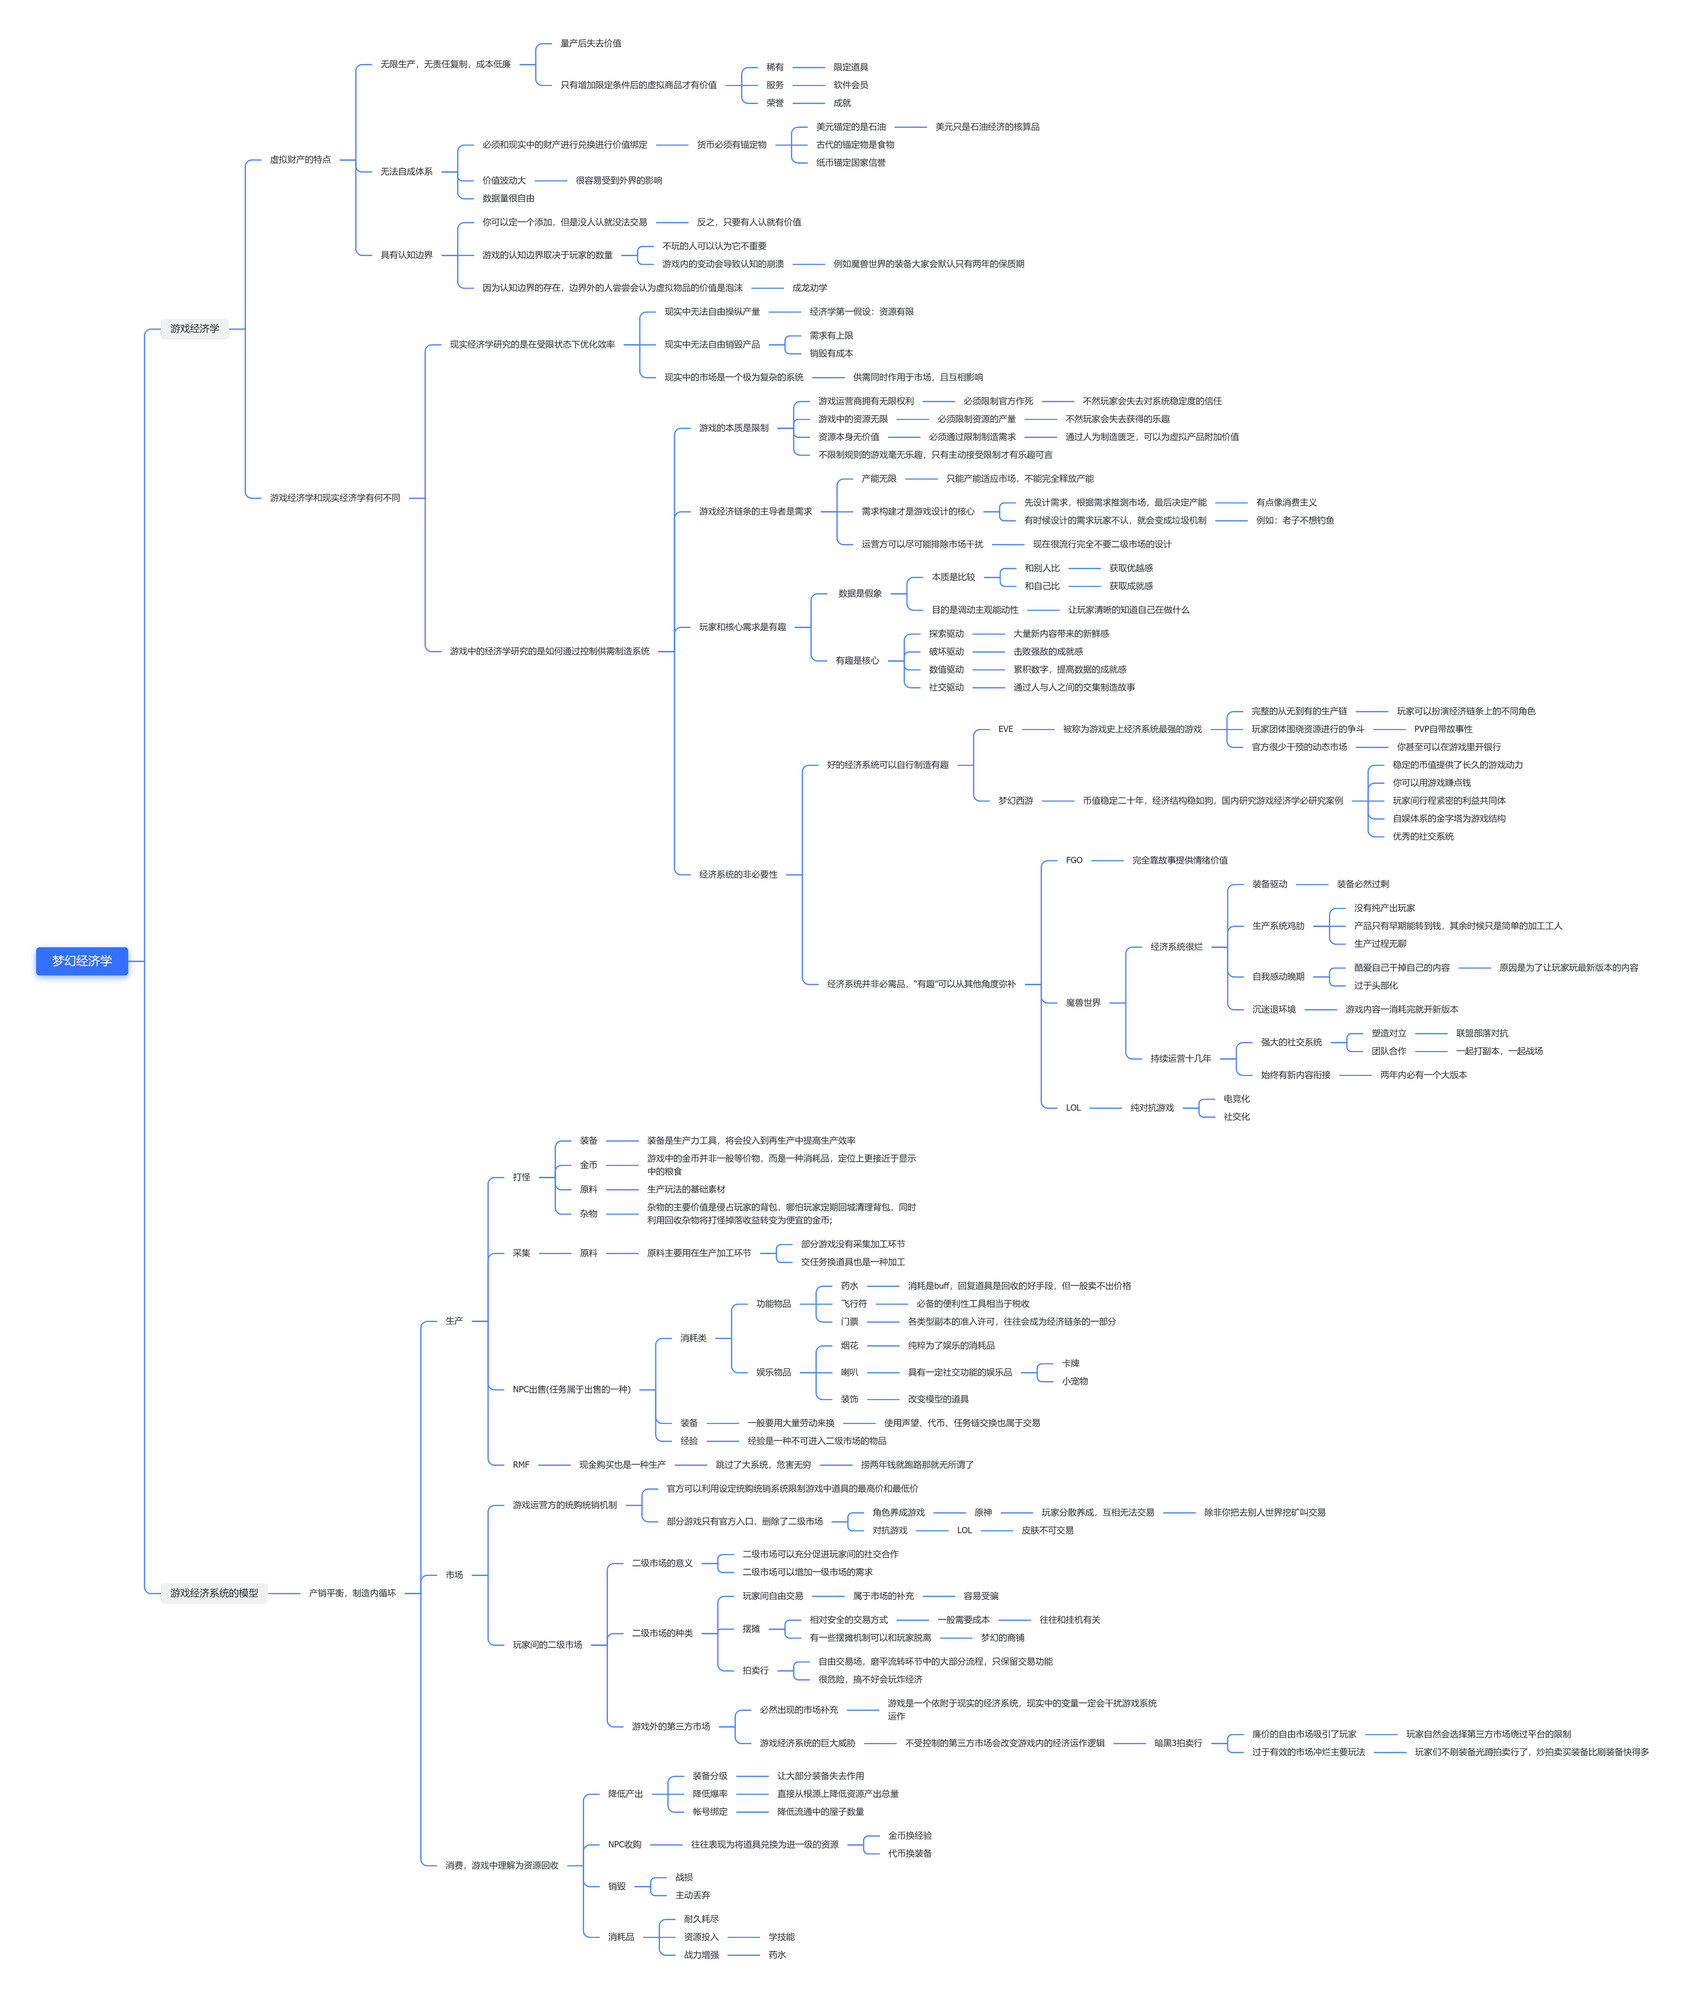
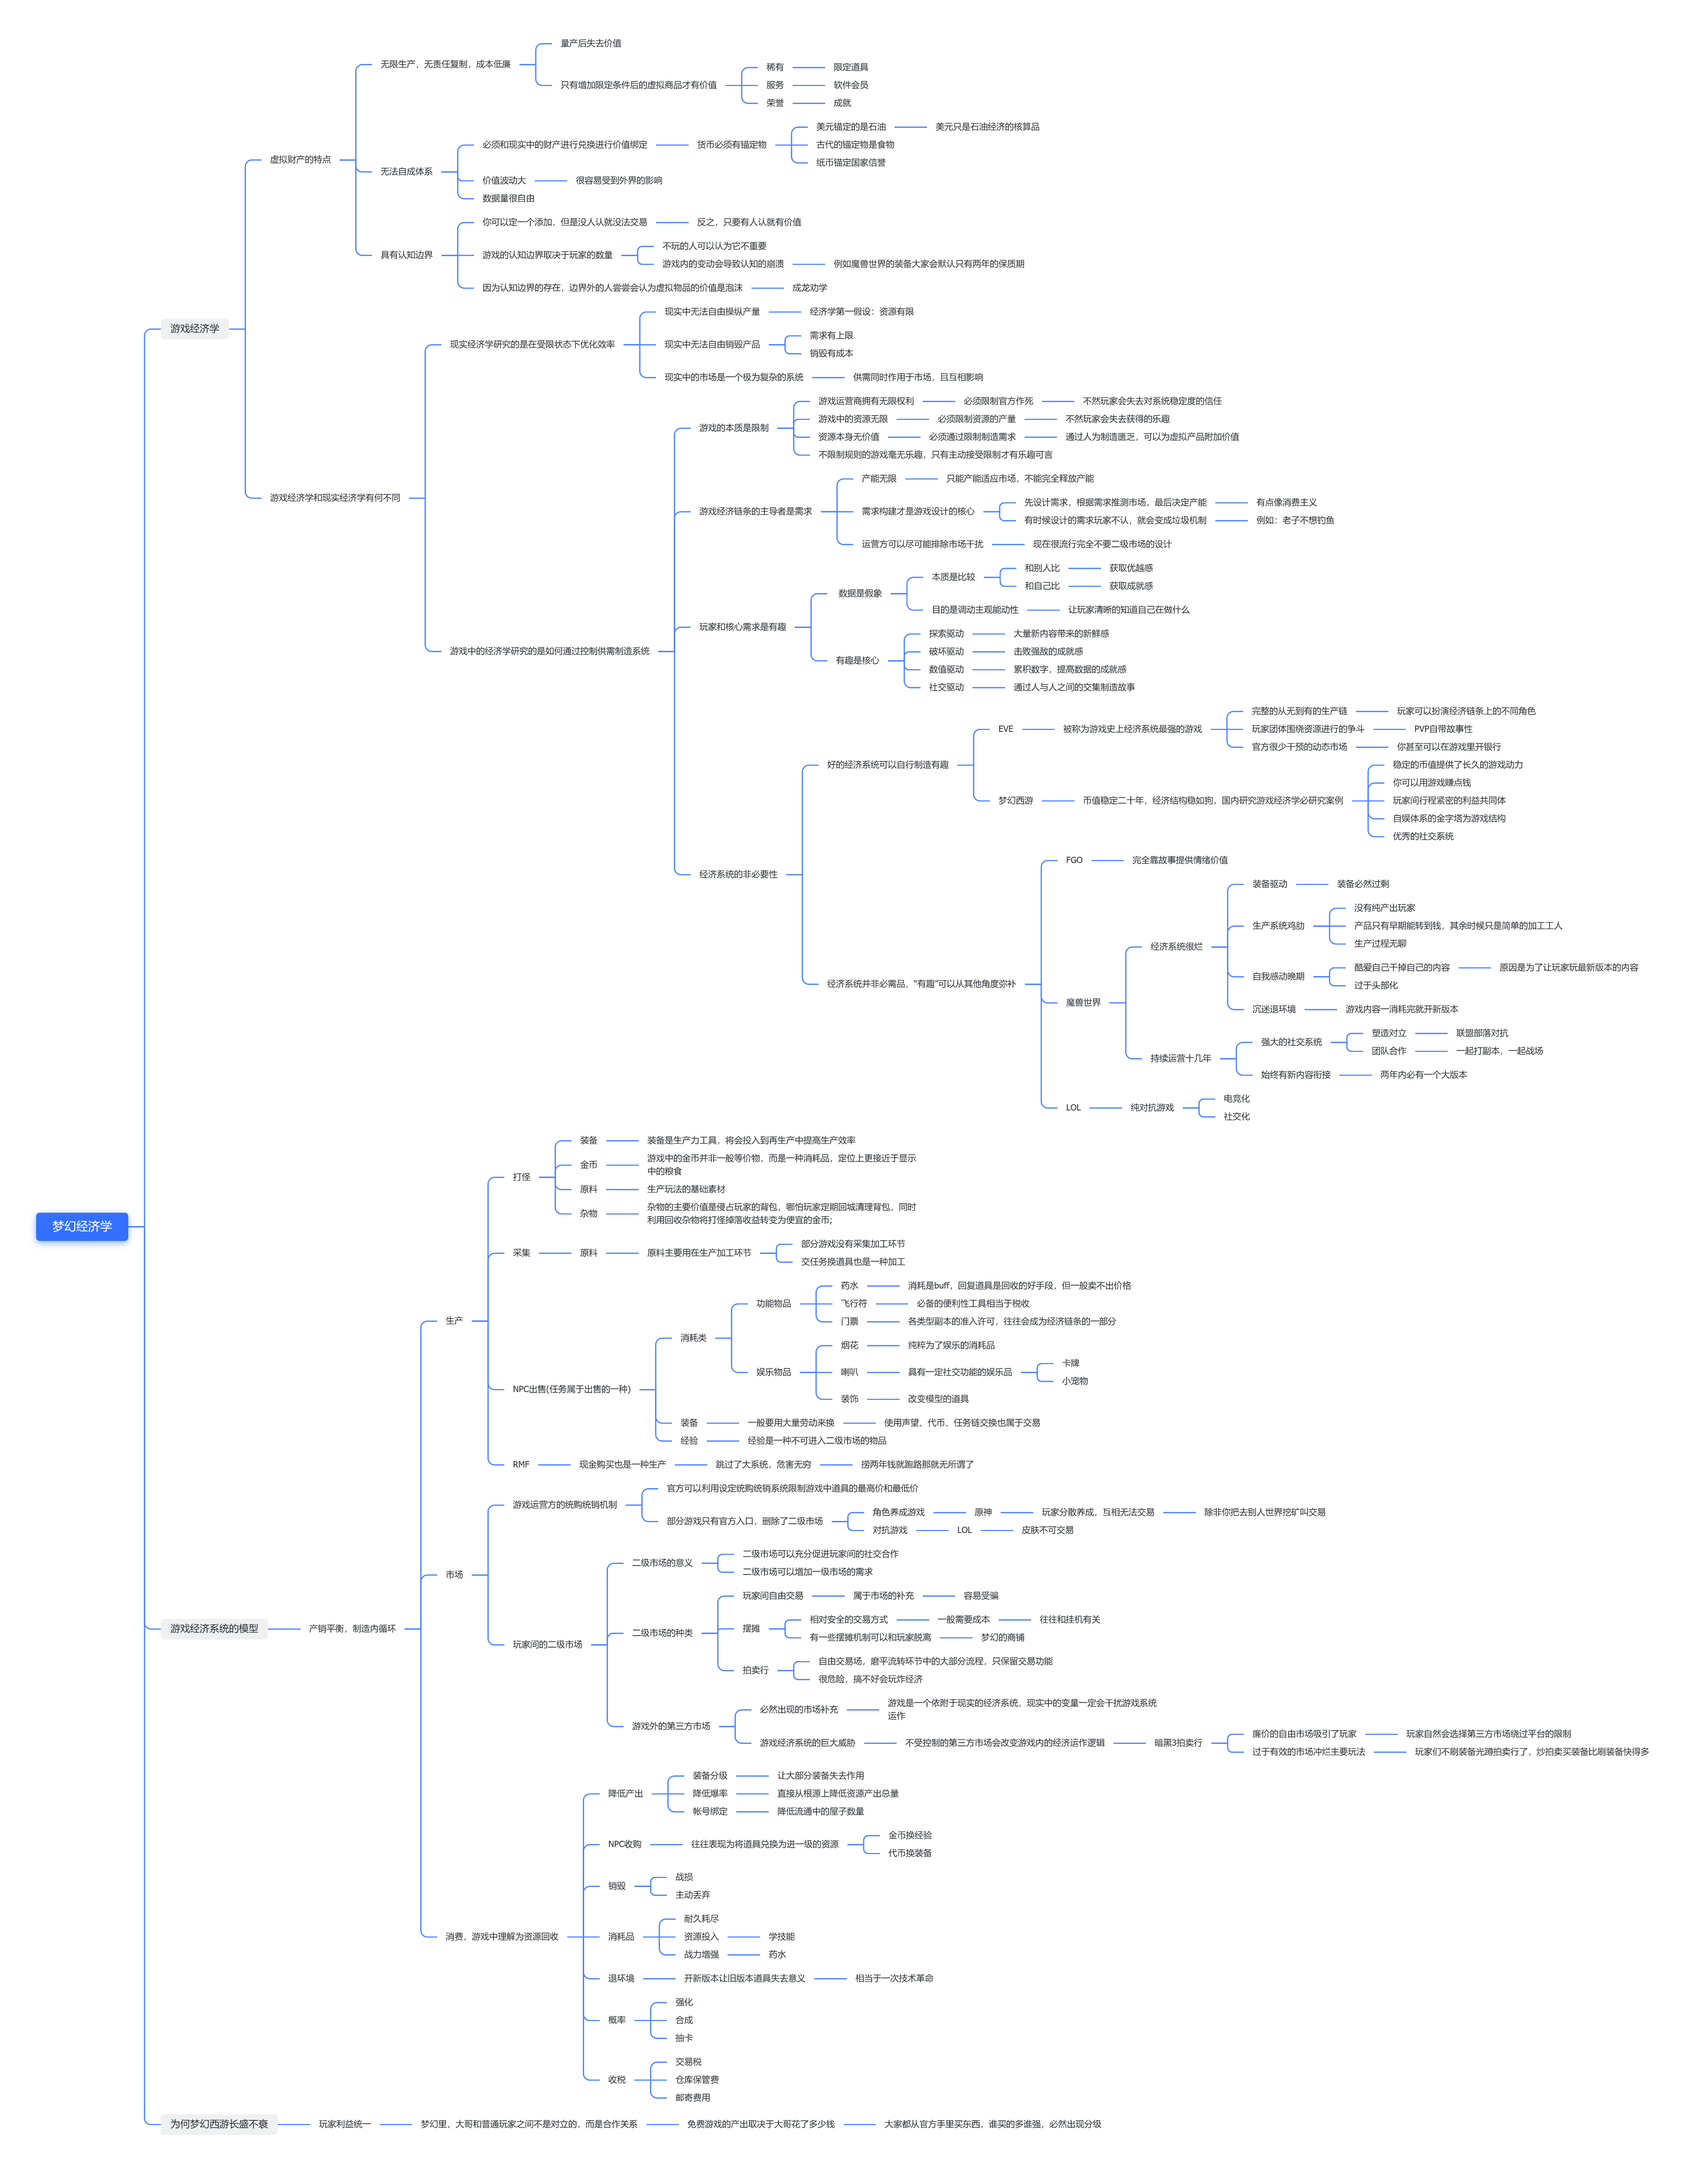
更新了梦幻经济学图片思维导图

diff --git a/3_其他/梦幻西游经济学MindMap.md b/3_其他/梦幻西游经济学MindMap.md
@@ -22,6 +22,7 @@ skinparam defaultFontName AR PL UMing CN
 ***** 价值波动大
 ****** 很容易受到外界的影响
 ***** 数据量很自由
+
 **** 具有认知边界
 ***** 你可以定一个添加，但是没人认就没法交易
 ****** 反之，只要有人认就有价值
@@ -31,6 +32,7 @@ skinparam defaultFontName AR PL UMing CN
 ******* 例如魔兽世界的装备大家会默认只有两年的保质期
 ***** 因为认知边界的存在，边界外的人尝尝会认为虚拟物品的价值是泡沫
 ****** 成龙劝学
+
 *** 游戏经济学和现实经济学有何不同
 **** 现实经济学研究的是在受限状态下优化效率
 ***** 现实中无法自由操纵产量
@@ -99,7 +101,7 @@ skinparam defaultFontName AR PL UMing CN
 ********* 优秀的社交系统
 ****** 经济系统并非必需品，“有趣”可以从其他角度弥补
 ******* FGO
-******** 完全靠股市提供情绪价值
+******** 完全靠故事提供情绪价值
 ******* 魔兽世界
 ******** 经济系统很烂
 ********* 装备驱动
@@ -145,7 +147,7 @@ skinparam defaultFontName AR PL UMing CN
 ******** 部分游戏没有采集加工环节
 ******** 交任务换道具也是一种加工
 ***** NPC出售(任务属于出售的一种)
-****** 消耗道具
+****** 消耗类
 ******* 功能物品
 ******** 药水
 ********* 消耗是buff，回复道具是回收的好手段，但一般卖不出价格
@@ -176,7 +178,7 @@ skinparam defaultFontName AR PL UMing CN
 ****** 官方可以利用设定统购统销系统限制游戏中道具的最高价和最低价
 ****** 部分游戏只有官方入口，删除了二级市场
 ******* 角色养成游戏
-******** 元神
+******** 原神
 ********* 玩家分散养成，互相无法交易
 ********** 除非你把去别人世界挖矿叫交易
 ******* 对抗游戏
